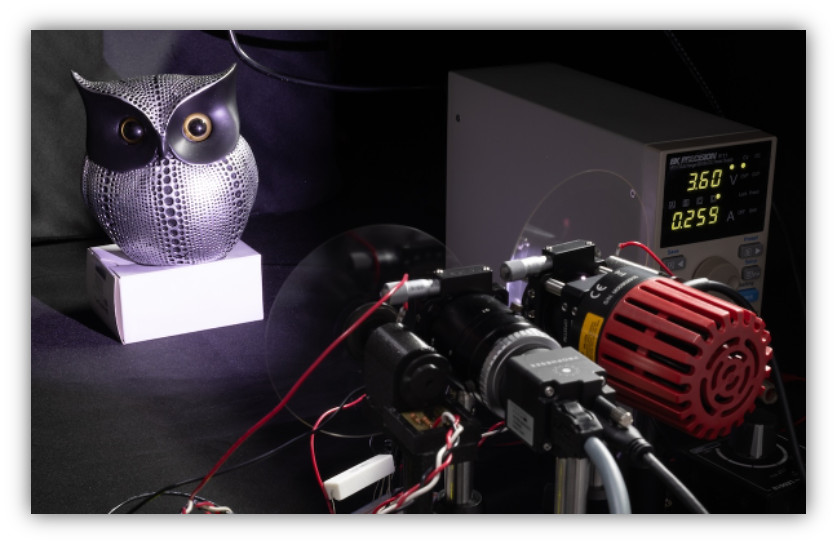
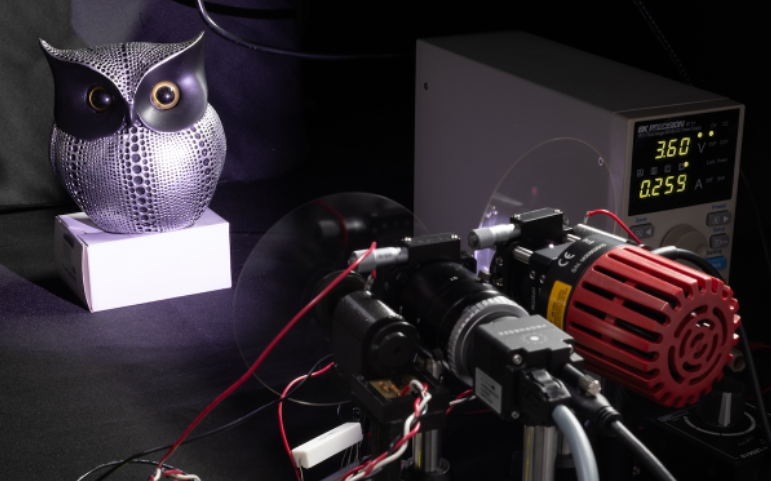
Update hpBRDF on main

diff --git a/assets/publication.js b/assets/publication.js
@@ -1,5 +1,16 @@
 const publications = [
     {
+      title: "Hyperspectral Polarimetric BRDFs of Real-world Materials",
+      authors: "<strong>Yunseong Moon</strong>, Ryota Maeda, Suhyun Shin, Inseung Hwang, Youngchan Kim, Min H. Kim, Seung-Hwan Baek",
+      venue: "SIGGRAPH Asia 2025",
+      links: [
+        { name: "Project", url: "" },
+        { name: "Paper", url: "" },
+        { name: "Dataset", url: "https://huggingface.co/datasets/yunseongmoon/Hyperspectral-Polarimetric-BRDF" },
+      ],
+      thumbnail: "assets/thumbnail_sigasia2025_moon.jpg"
+    },
+    {
       title: "Event Ellipsometer: Event-based Mueller-Matrix Video Imaging",
       authors: "Ryota Maeda, <strong>Yunseong Moon</strong>, Seung-Hwan Baek",
       venue: "CVPR 2025 highlight",

diff --git a/assets/news.js b/assets/news.js
@@ -1,8 +1,8 @@
 const emoji_celeb = "&#x1F389"
 const news = [
     {
-      date: "2025. 03.",
-      msg: `${emoji_celeb}One paper has been accepted at CVPR 2025. (highlight)`
+      date: "2025. 09.",
+      msg: `${emoji_celeb}One paper has been accepted at SIGGRAPH Asia 2025.`
     },
   ];
   

diff --git a/assets/style.css b/assets/style.css
@@ -62,6 +62,7 @@ header {
     justify-content: space-between;
     gap: 1rem;
     flex-wrap: wrap;
+    margin: 1rem 0;
 }
 
 .photo {
